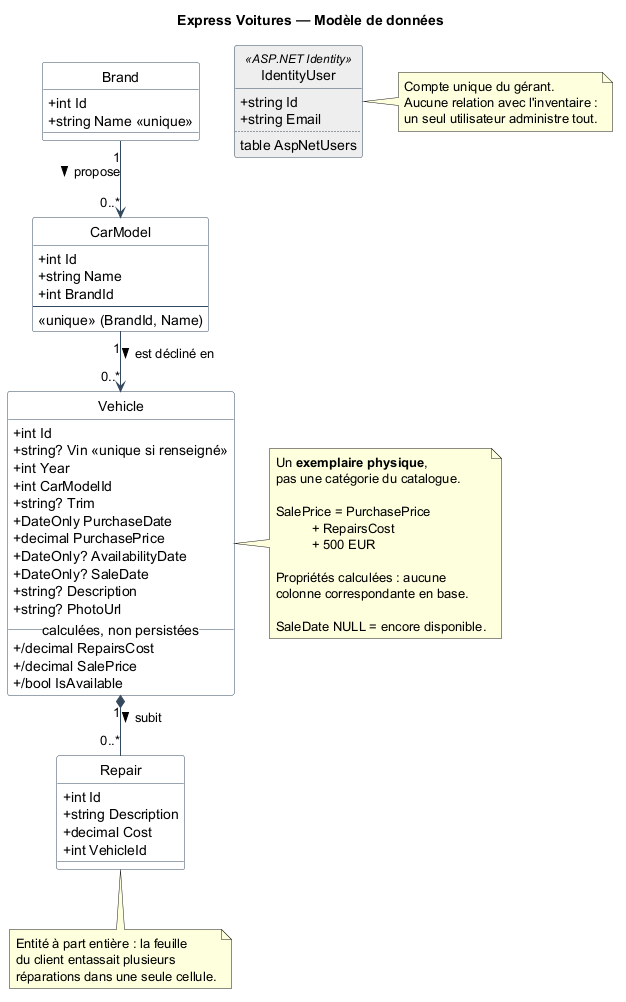
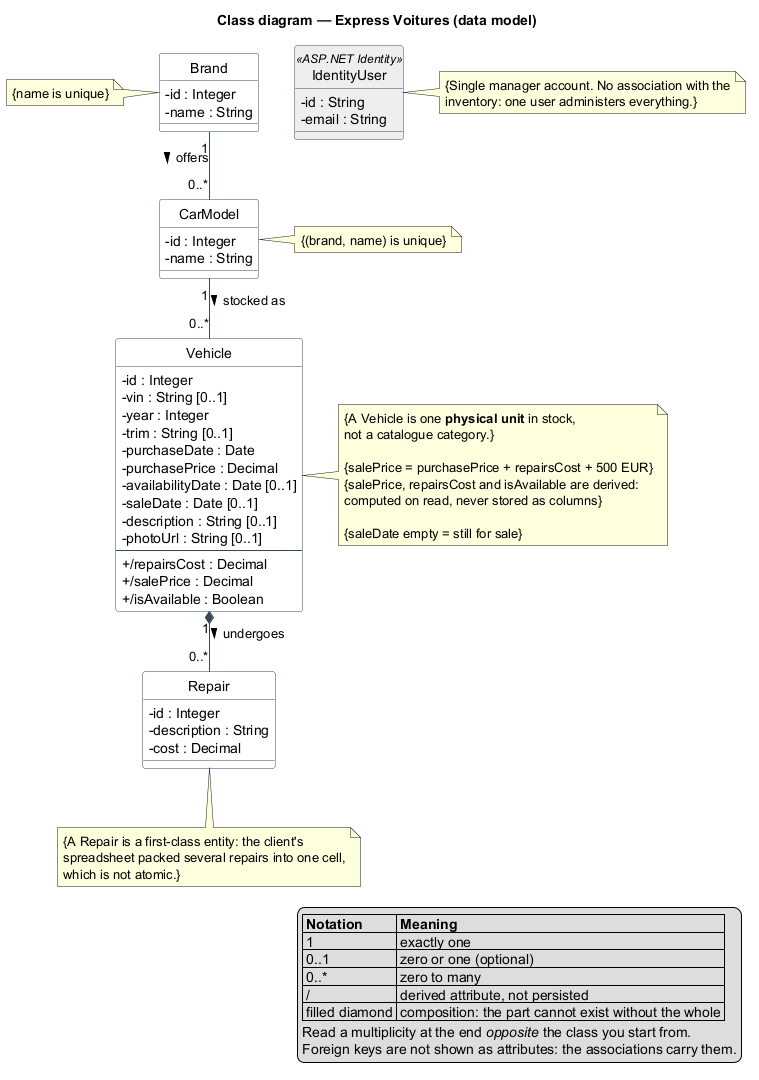
Refond les diagrammes UML : notation UML en anglais, remplace les cas d'utilisation par un diagramme d'architecture

diff --git a/docs/uml/README.md b/docs/uml/README.md
@@ -2,15 +2,33 @@
 
 | Fichier | Contenu |
 |---|---|
-| `data-model.puml` | Diagramme de classes du modèle de données |
-| `use-cases.puml` | Diagramme de cas d'utilisation |
+| `data-model.puml` | Diagramme de classes du domaine — les quatre entités persistées |
+| `architecture.puml` | Diagramme de classes des couches applicatives — contrôleurs, services, accès aux données |
 
 Les `.puml` sont la source ; les `.png` sont des artefacts régénérables,
 versionnés parce que le README racine les affiche.
 
-Les identifiants portés sur les diagrammes sont ceux du code C#, donc en
-anglais. Les titres, notes et légendes sont en français, comme le reste des
-livrables.
+## Conventions
+
+- **Les diagrammes sont intégralement en anglais**, identifiants comme
+  commentaires. Le reste des livrables (README, interface du site) est en
+  français.
+- **Notation UML, pas notation C#** : `-purchasePrice : Decimal` et non
+  `+decimal PurchasePrice`. Types neutres (`Integer`, `String`, `Decimal`,
+  `Date`, `Boolean`), attributs en `-`, opérations en `+`.
+- **L'optionnalité est une multiplicité** : `-vin : String [0..1]` signifie
+  que le VIN peut être absent.
+- **Les clés étrangères ne figurent pas en attributs.** `brandId`,
+  `carModelId` et `vehicleId` existent dans le code, mais en UML ce sont les
+  associations qui portent cette information.
+- **Les attributs dérivés portent un `/`** : `+/salePrice : Decimal` n'est pas
+  une colonne, il se recalcule à chaque lecture.
+- **Les contraintes sont entre accolades**, selon l'usage UML.
+- Chaque diagramme embarque une **table de notation** expliquant ses symboles.
+
+Aucun diagramme de cas d'utilisation n'est produit : les acteurs en bonshommes
+bâton ont été écartés. Les droits d'accès sont exprimés en contraintes sur le
+diagramme d'architecture.
 
 ## Régénérer les images
 
@@ -29,8 +47,18 @@ que la syntaxe, sans écrire de fichier :
 java -jar "C:\Program Files\PlantUML\plantuml.jar" -checkonly docs\uml\*.puml
 ```
 
+## État de synchronisation avec le code
+
+`data-model.puml` décrit les entités **après** le renommage anglais.
+
+`architecture.puml` décrit l'**architecture cible** : les services, les
+ViewModels et le `RepairsController` qu'il représente sont planifiés
+(tâches 3, 4, 7 et 8 du plan de finalisation) mais pas encore tous écrits. Il
+devient exact au fur et à mesure de leur implémentation, et doit être relu à
+ce moment-là.
+
 ## Règle de mise à jour
 
-Toute modification d'une entité, d'une action de contrôleur ou d'un attribut
-`[Authorize]` doit être reportée ici dans le même commit. Un diagramme qui ne
-décrit plus le code est pire que pas de diagramme.
+Toute modification d'une entité, d'une signature de service, d'une action de
+contrôleur ou d'un attribut `[Authorize]` doit être reportée ici dans le même
+commit. Un diagramme qui ne décrit plus le code est pire que pas de diagramme.
